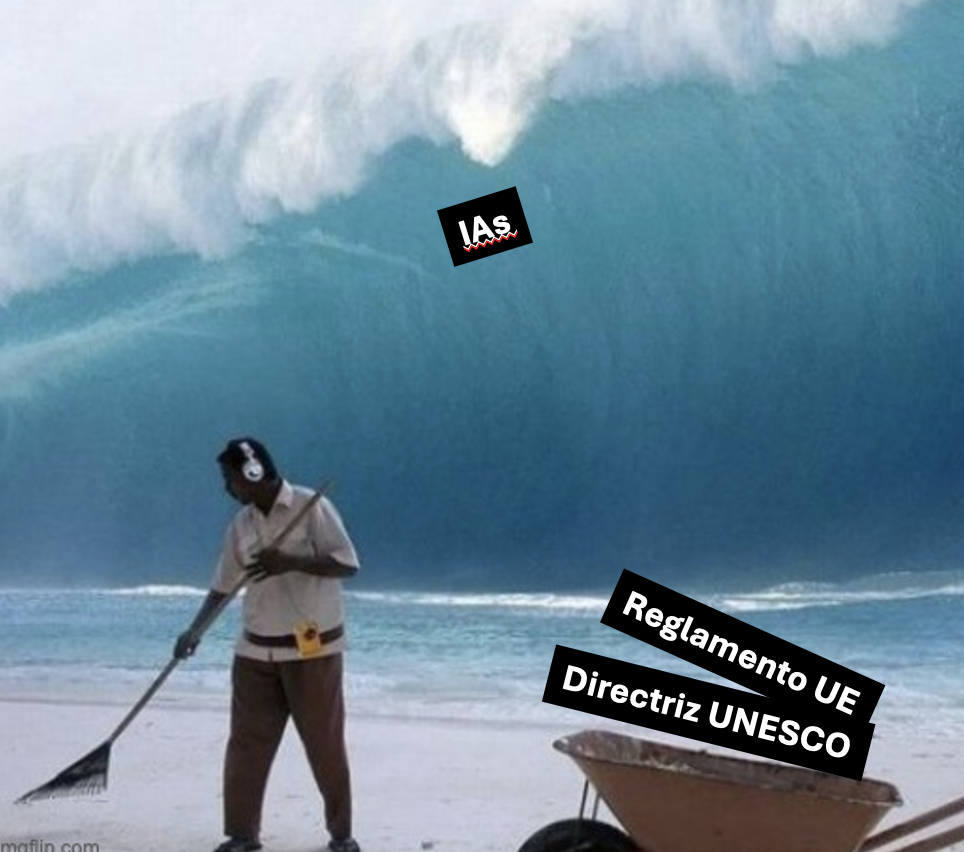
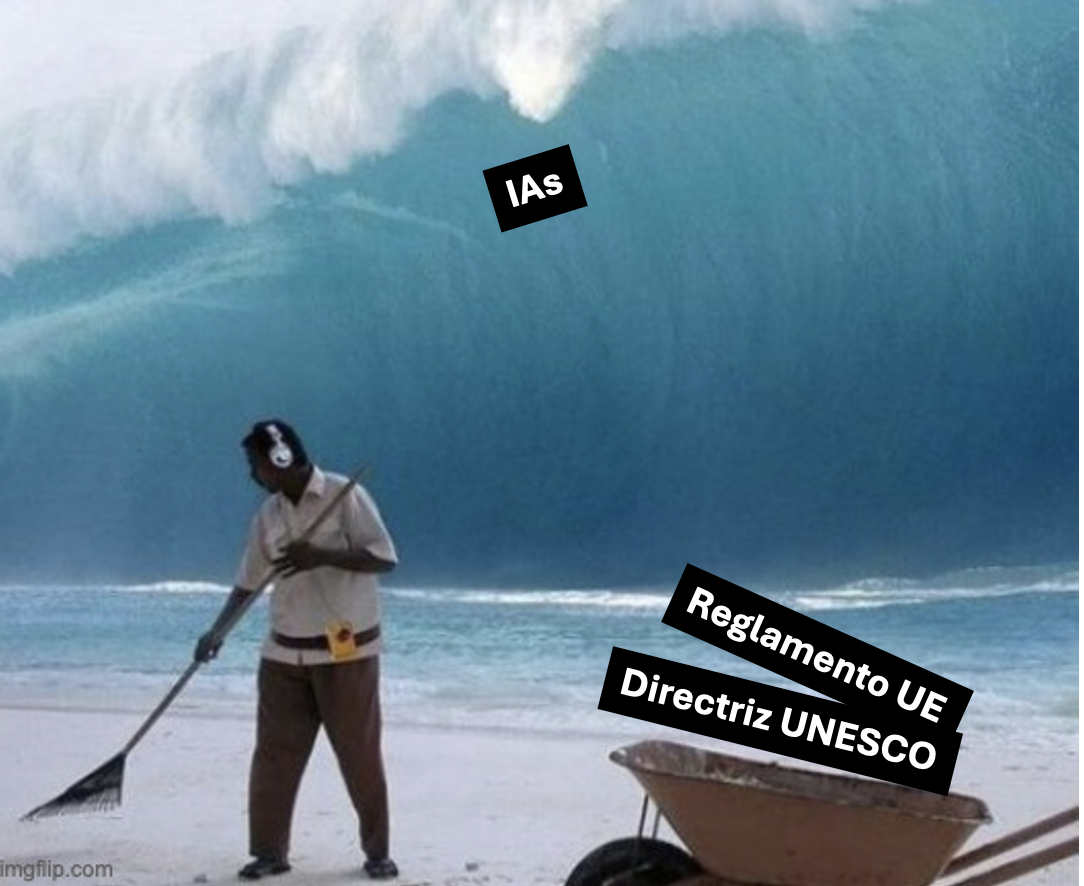
Varios
- Terminar revisión del texto.
- Actualizar imágenes

diff --git a/ias_amigas_o_enemigas_aprendizaje.md b/ias_amigas_o_enemigas_aprendizaje.md
@@ -9,7 +9,7 @@
 
 
 
-
+---
 
 [TOC]
 
@@ -34,7 +34,7 @@ Para generar lo que puedes leer a continuación se han dado los siguientes pasos
 
 	En [este](https://raw.githubusercontent.com/aprendiendo-cosas/Conf_IA_amiga_o_enemiga_GEOFOREST/refs/heads/main/2_hilo_argumental_comentado_por_IAs.md) documento se muestra la respuesta que me dieron Claude y Gemini al prompt anterior. 
 
-3. El siguiente paso implicó conciliar en otro documento los comentarios que aportaron las IAs con mi visión del asunto. No hubo cambio significativos en la estructura. [Aquí](https://raw.githubusercontent.com/aprendiendo-cosas/Conf_IA_amiga_o_enemiga_GEOFOREST/refs/heads/main/3_hilo_argumental_conciliado_IAs_fjbonet.md)) se puede ver el hilo argumental "final".
+3. El siguiente paso implicó conciliar en otro documento los comentarios que aportaron las IAs con mi visión del asunto. No hubo cambio significativos en la estructura. [Aquí](https://raw.githubusercontent.com/aprendiendo-cosas/Conf_IA_amiga_o_enemiga_GEOFOREST/refs/heads/main/3_hilo_argumental_conciliado_IAs_fjbonet.md) se puede ver el hilo argumental "final".
 4. Luego me puse a preparar la presentación. Ya tenía en mente una idea sobre cómo organizar la presentación. En esta fase use Nano Banana de Gemini para crear algunas figuras a modo de cliparts. La idea de los esquemas que aparecen en la presentación es toda mía. 0% de IA aquí. En el proceso de transformación del texto anterior a una presentación hubo cambios importantes. [Aquí](https://github.com/aprendiendo-cosas/Conf_IA_amiga_o_enemiga_GEOFOREST/raw/refs/heads/main/presentacion_IAs_geoforest.pptx) está disponible la presentación en formato Powerpoint. 
 5. El día de la charla puse el móvil a grabar y se generó un audio. Use Gemini para transcribirlo literalmente. Me da un poco de pudor compartir tanto el audio como la transcripción, así que no lo haré.
 6. Después pasé el audio transcrito a Claude y le pedí lo siguiente:
@@ -60,6 +60,10 @@ El objetivo de esta charla no es ofrecer una respuesta definitiva, sino proponer
 
 
 
+![diapo1](https://raw.githubusercontent.com/aprendiendo-cosas/Conf_IA_amiga_o_enemiga_GEOFOREST/refs/heads/main/imagenes/diapo_1_portada.png)
+
+
+
 ## 2. Contexto: actitudes individuales, respuesta institucional y efectos de la prohibición
 
 
@@ -76,15 +80,25 @@ Otras tecnologías hoy plenamente asumidas en las ciencias ambientales y foresta
 
 Las universidades, como instituciones, no han ofrecido hasta ahora una respuesta operativa al uso de la IA en la docencia. Existen marcos normativos y orientaciones de rango supranacional, como el Reglamento europeo de IA y la guía de la UNESCO, pero no están concebidos para la escala del aula ni de la asignatura. **[Comentario: conviene precisar la naturaleza de estos instrumentos. El documento de la UNESCO es una guía de recomendaciones, no un reglamento (**[**UNESCO, 2023**](https://scholar.google.com/scholar?q="Guidance+for+generative+AI+in+education+and+research")**). El Reglamento europeo regula sobre todo la seguridad y los riesgos de los sistemas de IA; no tiene por objeto proteger la capacidad cognitiva de los usuarios, aunque su artículo 4 exige garantizar la alfabetización en IA del personal de las organizaciones que la utilizan (**[**Reglamento (UE) 2024/1689**](http://data.europa.eu/eli/reg/2024/1689/oj)**).]**
 
+
+
+![diapo3](https://raw.githubusercontent.com/aprendiendo-cosas/Conf_IA_amiga_o_enemiga_GEOFOREST/refs/heads/main/imagenes/diapo_3_tsunami.png)
+
+
+
 ### 2.3. Consecuencia de primer orden: la prohibición
 
 La combinación de una tecnología que no ha sido demandada por la comunidad educativa, unas actitudes individuales heterogéneas y un marco normativo genérico conduce a que una parte relevante del profesorado opte por prohibir o restringir el uso de la IA. Esta respuesta es comprensible, dado que el profesorado carece en general de formación y de respaldo institucional para gestionar su uso. **[Comentario: no se aporta evidencia sobre la proporción de profesorado que adopta políticas prohibitivas; la afirmación debería presentarse como una observación del autor.]**
 
 La prohibición contrasta con la amplitud del uso. En la exposición se afirmó que en torno al 90 % de la población de un país como España usa la IA a diario. **[Comentario: la cifra es incorrecta para la población general. Las encuestas sitúan el uso diario en la población general muy por debajo de ese valor. La cifra de en torno al 90 % corresponde al uso (no necesariamente diario) por parte de estudiantes universitarios: un 92 % en el Reino Unido en 2025 (**[**Freeman, 2025**](https://www.google.com/search?q=HEPI+"Student+Generative+AI+Survey+2025")**). Para el argumento de la charla, este último dato es además el más pertinente.]**
 
+
+
 ### 2.4. Consecuencia de segundo orden: el uso encubierto
 
 Desde una perspectiva sistémica, las intervenciones sobre sistemas complejos suelen producir consecuencias no previstas. En este caso, la prohibición tendería a desplazar el uso de la IA hacia prácticas encubiertas, dada la disponibilidad de una herramienta de gran potencia. El estudiante percibe un problema que la institución no aborda, y el profesor carece de medios para identificar los trabajos elaborados con IA. **[Comentario: la hipótesis del desplazamiento hacia el uso encubierto es plausible, pero no se aporta evidencia empírica que la sustente. En cambio, la dificultad para identificar los textos generados por IA sí está bien documentada: ni el profesorado novel ni el experimentado los distingue de forma fiable (**[**Fleckenstein et al., 2024**](https://doi.org/10.1016/j.caeai.2024.100209)**), y los detectores automáticos tampoco son fiables (**[**Weber-Wulff et al., 2023**](https://doi.org/10.1007/s40979-023-00146-z)**).]**
+
+
 
 ### 2.5. Una alternativa: aprender a usar la IA en el aula
 
@@ -94,9 +108,13 @@ El análisis de esos errores se presenta a continuación. Se parte de la premisa
 
 
 
-## 3. Experiencia docente: tres supuestos erróneos
+![diapo6](https://raw.githubusercontent.com/aprendiendo-cosas/Conf_IA_amiga_o_enemiga_GEOFOREST/refs/heads/main/imagenes/diapo_6_meme_correr_desierto.png)
 
-### 3.1. Primer supuesto: lo que es útil para el profesor lo es también para el estudiante
+
+
+## 3. Experiencia docente: tres errores cometidos
+
+### 3.1. Primer error: lo que es útil para el profesor lo es también para el estudiante
 
 Para el autor, la IA generativa ha transformado la forma de trabajar y, sobre todo, de aprender. Le permite iniciar con facilidad scripts de programación, preparar asignaturas nuevas y acceder con rapidez a información sobre campos que antes le resultaban poco accesibles. El autor considera este cambio de mayor alcance que la llegada de las enciclopedias digitales a finales de los años noventa.
 
@@ -108,6 +126,12 @@ La explicación propuesta se basa en la diferencia entre las estructuras de cono
 
[1 lines of base64/hex data omitted]
 
+
+
+![diapo11](https://raw.githubusercontent.com/aprendiendo-cosas/Conf_IA_amiga_o_enemiga_GEOFOREST/refs/heads/main/imagenes/diapo_11_aprendiz_experto.png)
+
+
+
 ### 3.2. Segundo supuesto: un buen resultado implica aprendizaje
 
 El segundo supuesto erróneo, extendido en el conjunto del sistema educativo, consiste en inferir que un producto de calidad (un informe, un artículo, una gráfica) elaborado con IA refleja un aprendizaje profundo, entendido como aquel que se mantiene en el tiempo más allá de la evaluación. **[Comentario: la definición es parcial. En la literatura, el aprendizaje profundo (\*deep approach\*) se asocia sobre todo a la búsqueda de comprensión y significado, frente a la memorización reproductiva (\*surface approach\*) (**[**Marton & Säljö, 1976**](https://scholar.google.com/scholar?q="On+qualitative+differences+in+learning"+Marton+Säljö)**); la retención a largo plazo es una consecuencia, no su definición.]**
@@ -118,21 +142,33 @@ Lo que produce aprendizaje es el proceso, no solo la calidad del resultado. Ello
 
 Cuando la IA se orienta al proceso, los resultados mejoran. **[Comentario: respaldado, aunque con resultados de distinta magnitud. En el estudio de Bastani et al., una versión de GPT-4 diseñada como tutor, que no ofrecía las respuestas directamente, eliminó el efecto negativo sobre el examen, aunque no lo mejoró significativamente respecto al control (**[**Bastani et al., 2025**](https://doi.org/10.1073/pnas.2422633122)**). En un ensayo controlado con estudiantes universitarios de Física, un tutor de IA diseñado según principios pedagógicos produjo ganancias de aprendizaje superiores al doble que una clase de aprendizaje activo (**[**Kestin et al., 2025**](https://scholar.google.com/scholar?q="AI+tutoring+outperforms+in-class+active+learning")**). En ambos casos se trata de herramientas configuradas específicamente, no de asistentes de uso general.]**
 
+
+
+![diapo12](https://raw.githubusercontent.com/aprendiendo-cosas/Conf_IA_amiga_o_enemiga_GEOFOREST/refs/heads/main/imagenes/diapo_12_productismo.png)
+
+
+
 ### 3.3. Tercer supuesto: la IA es igualmente útil para cualquier tarea
 
 El tercer supuesto erróneo es considerar la IA como una herramienta polivalente que mejora el aprendizaje en todos los ámbitos. La experiencia del autor y la literatura indican que algunos usos lo favorecen y otros lo dificultan.
 
 Entre los usos que tienden a favorecer el aprendizaje se encuentran los siguientes:
 
[2 lines of base64/hex data omitted]
 - **Búsqueda de información.** La búsqueda semántica aumenta la eficiencia en la localización de literatura científica, siempre que se empleen herramientas adecuadas. En la exposición se recomendaron Perplexity y Elicit y se desaconsejó ChatGPT. **[Comentario: los modelos de lenguaje sin acceso a fuentes inventan referencias con frecuencia: el 55 % de las citas de GPT-3.5 y el 18 % de las de GPT-4 eran inexistentes en un estudio (**[**Walters & Wilder, 2023**](https://doi.org/10.1038/s41598-023-41032-5)**). Sin embargo, no se dispone de evaluaciones independientes que respalden la superioridad de las herramientas recomendadas, y las versiones actuales de ChatGPT también incorporan búsqueda en fuentes. Cualquier herramienta requiere verificación sistemática de las referencias.]**
 - **Explicación de conceptos.** El diálogo de tipo socrático con la IA, basado en repreguntar, favorece la comprensión. **[Comentario: respaldado cuando la herramienta está diseñada para no dar respuestas directas (**[**Kestin et al., 2025**](https://scholar.google.com/scholar?q="AI+tutoring+outperforms+in-class+active+learning")**;** [**Bastani et al., 2025**](https://doi.org/10.1073/pnas.2422633122)**).]**
 
 Entre los usos que tienden a dificultar el aprendizaje se encuentran los siguientes:
 
-- **Redacción.** Delegar la escritura en la IA no sería adecuado ni siquiera para personas expertas, porque conduce a la pérdida de esa capacidad. **[Comentario: la afirmación referida a expertos no está respaldada de forma general. En términos de productividad, la IA mejora la rapidez y la calidad de la escritura profesional (**[**Noy & Zhang, 2023**](https://doi.org/10.1126/science.adh2586)**). La evidencia sobre efectos cognitivos de redactar con IA es aún preliminar: un estudio con electroencefalografía encontró menor conectividad cerebral y menor sensación de autoría al escribir con ChatGPT, pero es un preprint sin revisión por pares y con una muestra pequeña (**[**Kosmyna et al., 2025**](https://arxiv.org/abs/2506.08872)**).]**
+- **Redacción.** Delegar la escritura en la IA no sería adecuado, sobre todo para personas con poca experiencia en la escritura. **[Comentario: la afirmación referida a expertos no está respaldada de forma general. En términos de productividad, la IA mejora la rapidez y la calidad de la escritura profesional (**[**Noy & Zhang, 2023**](https://doi.org/10.1126/science.adh2586)**). La evidencia sobre efectos cognitivos de redactar con IA es aún preliminar: un estudio con electroencefalografía encontró menor conectividad cerebral y menor sensación de autoría al escribir con ChatGPT, pero es un preprint sin revisión por pares y con una muestra pequeña (**[**Kosmyna et al., 2025**](https://arxiv.org/abs/2506.08872)**).]**
 - **Resumen.** Resumir es una tarea cognitivamente exigente que no debería delegarse. **[Comentario: parcialmente respaldado. Resumir requiere procesamiento activo, pero su eficacia como técnica de estudio es limitada si el estudiante no ha sido entrenado en ella (**[**Dunlosky et al., 2013**](https://doi.org/10.1177/1529100612453266)**). Además, los resúmenes de artículos científicos generados por modelos de lenguaje tienden a generalizar en exceso las conclusiones (**[**Peters & Chin-Yee, 2025**](https://doi.org/10.1098/rsos.241776)**).]**
-- **Cuestionamiento.** Contrastar la información recibida con el conocimiento propio y buscar puntos de fricción no debería delegarse en la IA; en la exposición se afirmó que este uso reduce el aprendizaje «independientemente de lo bien que usemos la IA». **[Comentario: la afirmación es demasiado absoluta y contradice la propuesta de la sección 5.1, donde la IA se usa después del esfuerzo como «contraste, espejo, adversario, corrector». Lo que la evidencia desaconseja es delegar el juicio crítico, no usar la IA como interlocutor que lo ejercite; los tutores diseñados para cuestionar al estudiante obtienen buenos resultados (**[**Kestin et al., 2025**](https://scholar.google.com/scholar?q="AI+tutoring+outperforms+in-class+active+learning")**).]**
+- **Cuestionamiento.** Delegar el juicio crítico no es recomendable independientemente de lo bien que usemos la IA. **[Comentario: lo que sí es útil es usar la IA como interlocutor que lo ejercite; los tutores diseñados para cuestionar al estudiante obtienen buenos resultados (**[**Kestin et al., 2025**](https://scholar.google.com/scholar?q="AI+tutoring+outperforms+in-class+active+learning")**).]**
+
+
+
+![diapo13](https://raw.githubusercontent.com/aprendiendo-cosas/Conf_IA_amiga_o_enemiga_GEOFOREST/refs/heads/main/imagenes/diapo_13_multiuso.png)
+
+
 
 ## 4. Fundamentos cognitivos del aprendizaje profundo
 
@@ -144,7 +180,7 @@ El aprendizaje requiere esfuerzo. Para que los conceptos se consoliden deben ser
 
 ### 4.2. Conexión con el conocimiento previo
 
-El conocimiento nuevo no se incorpora en el vacío, sino en relación con lo que ya se sabe. Ello genera una jerarquía en el aprendizaje: la selvicultura requiere conocimientos de ecología; la ecología, de botánica; y la botánica, de edafología. Del mismo modo, la física cuántica sería inaccesible sin la física newtoniana. **[Comentario: el papel del conocimiento previo es un principio clásico (**[**Ausubel, 1968**](https://scholar.google.com/scholar?q="Educational+psychology%3A+A+cognitive+view")**). No obstante, un metaanálisis amplio muestra que el conocimiento previo predice con fuerza el conocimiento final, pero su relación con la ganancia de aprendizaje es más débil e inconsistente de lo que se suele suponer (**[**Simonsmeier et al., 2022**](https://doi.org/10.1080/00461520.2021.1939700)**). La idea de una jerarquía estricta entre disciplinas es una simplificación.]**
+El conocimiento nuevo no se incorpora en el vacío, sino en relación con lo que ya se sabe. Ello genera una jerarquía en el aprendizaje: la selvicultura requiere conocimientos de ecología; la ecología, de botánica; y la botánica, de edafología. Del mismo modo, la física cuántica sería inaccesible sin la física newtoniana. **[Comentario: el papel del conocimiento previo es un principio clásico (**[**Ausubel, 1968**](https://scholar.google.com/scholar?q="Educational+psychology%3A+A+cognitive+view")**). No obstante, un metaanálisis amplio muestra que el conocimiento previo predice con fuerza el conocimiento final, pero su relación con la ganancia de aprendizaje es más débil e inconsistente de lo que se suele suponer (**[**Simonsmeier et al., 2022**](https://doi.org/10.1080/00461520.2021.1939700)**)]**
 
 ### 4.3. Andamiaje
 
@@ -153,6 +189,14 @@ El aprendizaje requiere apoyos externos provisionales, análogos a los andamios 
 ### 4.4. Implicación para la IA
 
 La IA generativa puede vulnerar estas tres condiciones. Salvo que se le indique expresamente, no genera fricción, no tiene en cuenta la estructura de conocimientos del usuario y no actúa como un andamio que se retira: proporciona de una vez todo el conocimiento solicitado. Por tanto, un uso favorable al aprendizaje debe adaptarse a estas condiciones. **[Comentario: coherente con la evidencia. El mismo modelo de lenguaje produce efectos opuestos sobre el aprendizaje según se configure para dar respuestas o para guiar al estudiante (**[**Bastani et al., 2025**](https://doi.org/10.1073/pnas.2422633122)**).]**
+
+
+
+![diapo14](https://raw.githubusercontent.com/aprendiendo-cosas/Conf_IA_amiga_o_enemiga_GEOFOREST/refs/heads/main/imagenes/diapo_14_aprendizaje_profundo.png)
+
+
+
+
 
 ## 5. Propuesta de criterios de uso: las esclusas
 
@@ -167,7 +211,7 @@ Según Arjona, «la IA puede llegar antes, durante o después del esfuerzo. Si l
 Se proponen tres usos desaconsejados:
 
 1. **Creación de contenido cuando sustituye el objeto de aprendizaje.** Si una actividad persigue que el estudiante aprenda a construir una presentación con un hilo argumental, delegarla en la IA anula su finalidad. Si el objeto de aprendizaje es otro (por ejemplo, analizar las diferencias entre R y Python), el formato puede delegarse sin coste para el aprendizaje. **[Comentario: coherente con el efecto de generación (**[**Slamecka & Graf, 1978**](https://doi.org/10.1037/0278-7393.4.6.592)**) y con la distinción entre rendimiento y aprendizaje (**[**Soderstrom & Bjork, 2015**](https://doi.org/10.1177/1745691615569000)**). El criterio de identificar qué parte de la tarea constituye el objeto de aprendizaje es pertinente.]**
[3 lines of base64/hex data omitted]
 
 ### 5.3. Esclusas sobre el tipo de tarea: usos recomendados
@@ -178,13 +222,17 @@ Se proponen tres usos recomendados:
 2. **Tareas simples**, como realizar cálculos o agregar datos en una hoja de cálculo. **[Comentario: los modelos de lenguaje pueden cometer errores aritméticos si no ejecutan código o no usan herramientas de cálculo integradas. El criterio debería incluir la verificación de los resultados.]**
 3. **Aprendizaje de destrezas nuevas pero próximas.** Este es el uso más valioso: aprender lo que no se sabe, pero que está al alcance a partir de los conocimientos previos. Por ejemplo, preparar una asignatura nueva en un campo afín es abordable con ayuda de la IA; una destreza muy alejada de la propia formación no lo es, porque genera frustración y escaso aprendizaje. **[Comentario: respaldado. El criterio corresponde a la zona de desarrollo próximo (**[**Vygotsky, 1978**](https://scholar.google.com/scholar?q="Mind+in+society%3A+The+development+of+higher+psychological+processes")**) y a las condiciones de eficacia del andamiaje (**[**van de Pol et al., 2010**](https://doi.org/10.1007/s10648-010-9127-6)**). Conviene señalar que el ejemplo procede de un profesor experto; para un estudiante, el riesgo descrito en la sección 3.1 sigue presente si la IA resuelve la tarea en lugar de guiarla.]**
 
+
+
 ## 6. Conclusiones
 
 La IA generativa no es en sí misma aliada ni enemiga del aprendizaje: su efecto depende de si su uso respeta las condiciones de fricción, conexión con el conocimiento previo y andamiaje que requiere el aprendizaje profundo. La experiencia docente analizada muestra tres supuestos erróneos: que lo útil para un experto lo es para un aprendiz, que un buen producto implica aprendizaje y que la IA es igualmente útil para cualquier tarea.
 
 Como respuesta, se propone un sistema de esclusas que limita el uso de la IA en función del momento del proceso de aprendizaje y del tipo de tarea. Estos criterios son provisionales: la evidencia disponible procede en gran parte de estudios de corta duración, de contextos distintos al universitario o de diseños correlacionales, y requiere confirmación mediante estudios longitudinales.
 
-## Referencias
+
+
+## 7. Referencias
 
 Las referencias se han recopilado sin acceso a búsqueda bibliográfica; conviene verificar los datos antes de citarlas. Los enlaces a doi.org y arXiv son directos; los de Google Scholar buscan el título exacto. *No he leído toda esta bibliografía para preparar la charla. Solo los resúmenes de algunas. Ya tengo tarea para los próximos meses ...*
 
